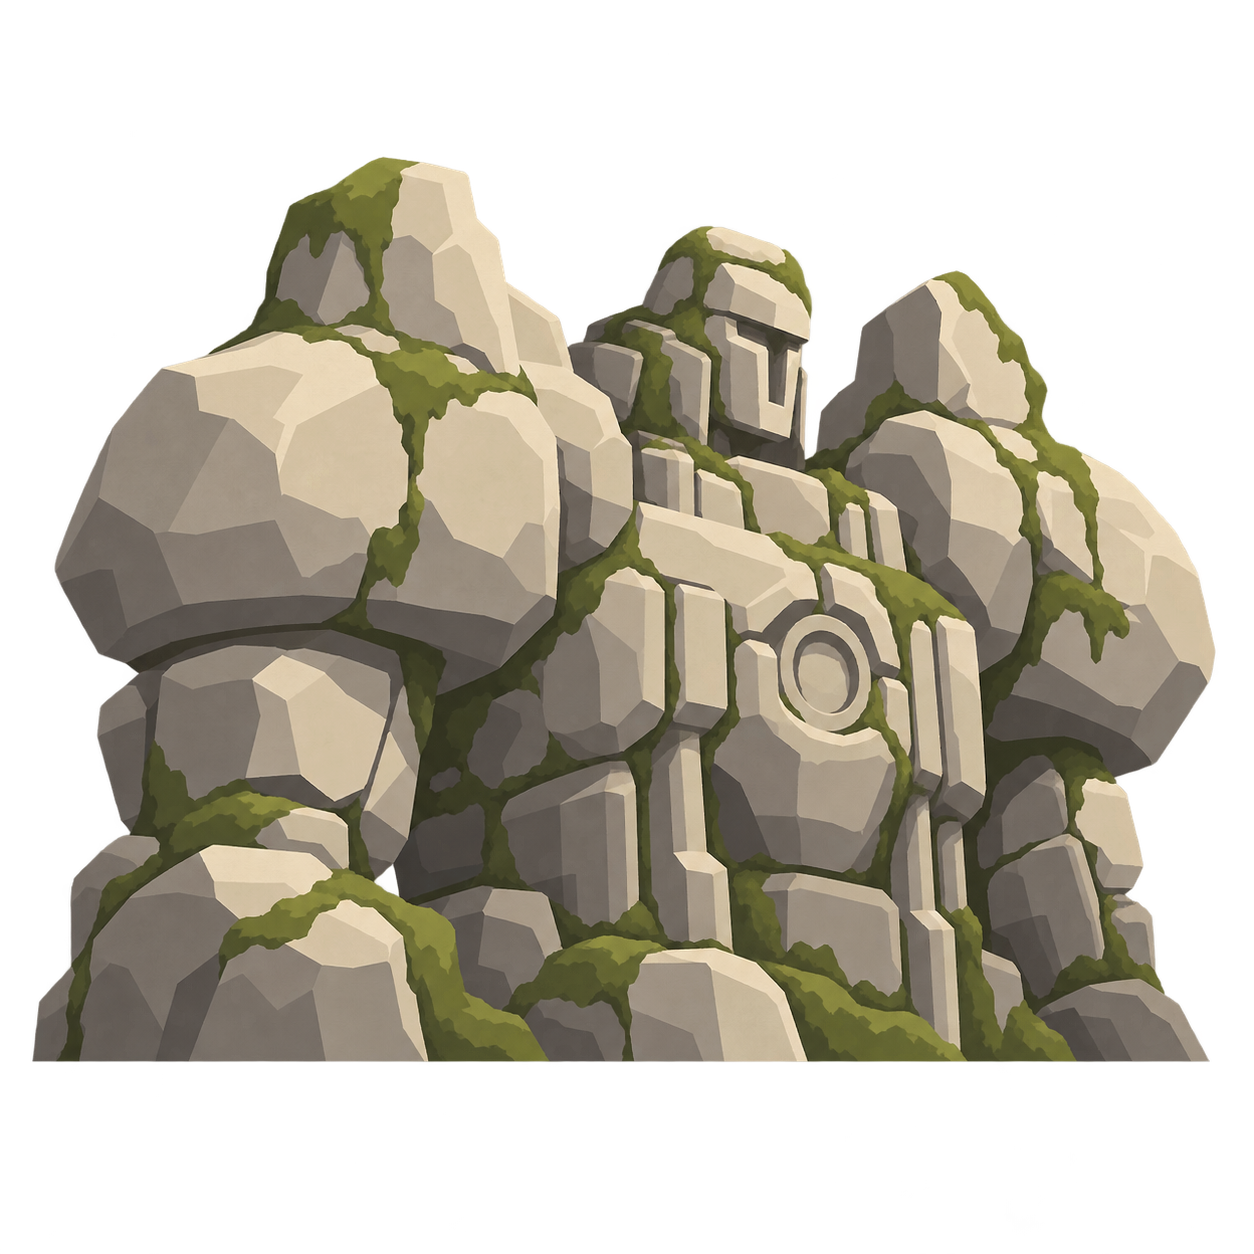
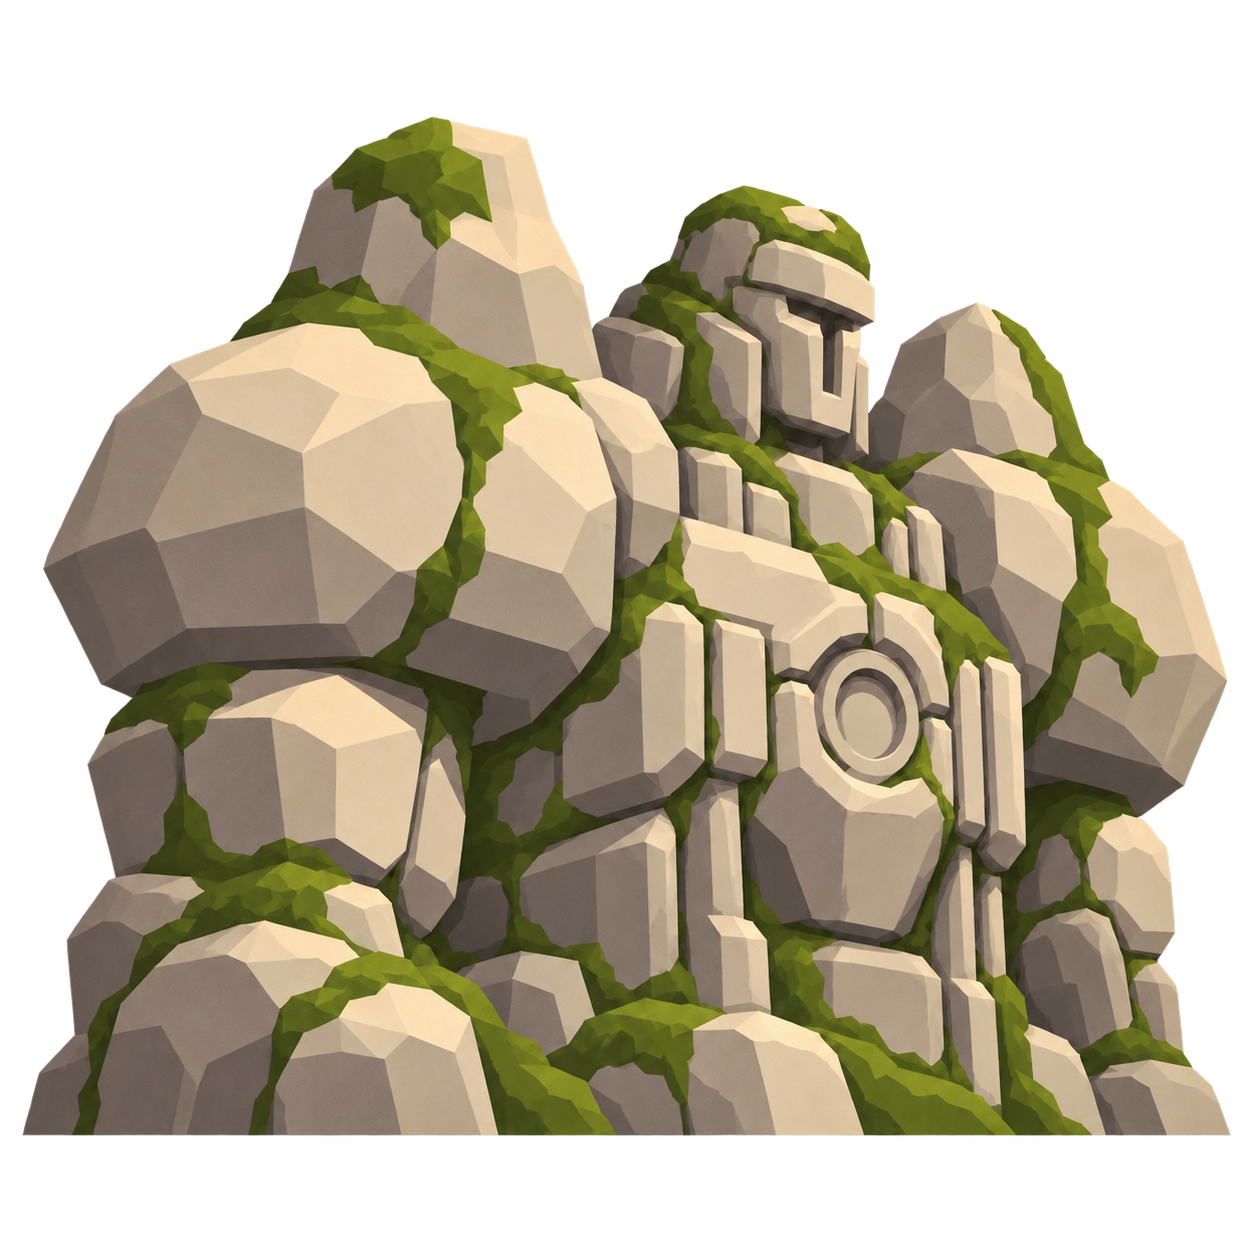
art: remake titan remnant sprites and codex entries

diff --git a/.art/ANIMATION-ASSETS.md b/.art/ANIMATION-ASSETS.md
@@ -110,6 +110,19 @@ Transform 스케일 변형은 적용하지 않는다.
 - 오라는 소환수 상세의 `부속 에셋`으로 표시한다.
 - 마법 상세와 소환수 상세은 양방향 링크를 제공한다.
 
+## 거신의 잔해 부속 공격
+
+| 실제 파일 | 의미 이름 | 런타임 연결 |
+|---|---|---|
+| `TitanRemnant.png` | 거신의 잔해 · 고정 본체 | `TitanRemnant.prefab` 기본 SpriteRenderer |
+| `TitanFist.png` | 거신의 잔해 · 솟구치는 돌주먹 | `TitanFist.prefab` 기본 SpriteRenderer |
+
+`TitanFist`는 본체의 공격 프레임이 아니라 적 위치에 별도 생성되는 ServedObject다.
+따라서 본체와 공유 캔버스를 쓰지 않지만, 같은 석재 크기·팔레트·카메라·광원을
+유지해 한 개체의 부속 공격으로 읽혀야 한다. 주먹은 `TitanFistPresenter`가 아래에서
+위로 솟구치는 위치 연출을 담당하므로 스프라이트 자체에는 이동 잔상이나 지면
+그림자를 합성하지 않는다.
+
 ## Cloud Dragon 프레임
 
 | 실제 파일 | 의미 이름 | 프리팹 연결 |

diff --git a/.art/PRODUCTION-STATUS.md b/.art/PRODUCTION-STATUS.md
@@ -39,6 +39,8 @@
 | `RockGolem.png` | `concept-art/rock-golem.webp` | 이끼바위 골렘 기본 자세 |
 | `RockGolem2.png` | `game-assets/rock-golem-attack.webp` | 이끼바위 골렘 공격 자세 |
 | `RockRemnant.png` | `game-assets/rock-remnant.webp` | 사망 후 이동 방해 잔해 |
+| `TitanRemnant.png` | 클라이언트 이슈 #593 재작업 검수 | 거신의 잔해 본체 |
+| `TitanFist.png` | 클라이언트 이슈 #593 재작업 검수 | 주변 적 위치에서 솟구치는 거대한 돌주먹 |
 | `LightningTadpole.png` | `concept-art/lightning-tadpole.webp` | 차원 유랑종 폭풍편 방향 적용 |
 | `MagmaSpirit.png` | `concept-art/magma-spirit-idle.webp` | 기본 자세 |
 | `MagmaSpiritAttacking.png` | `concept-art/magma-spirit-attack.webp` | 공격 자세 |
